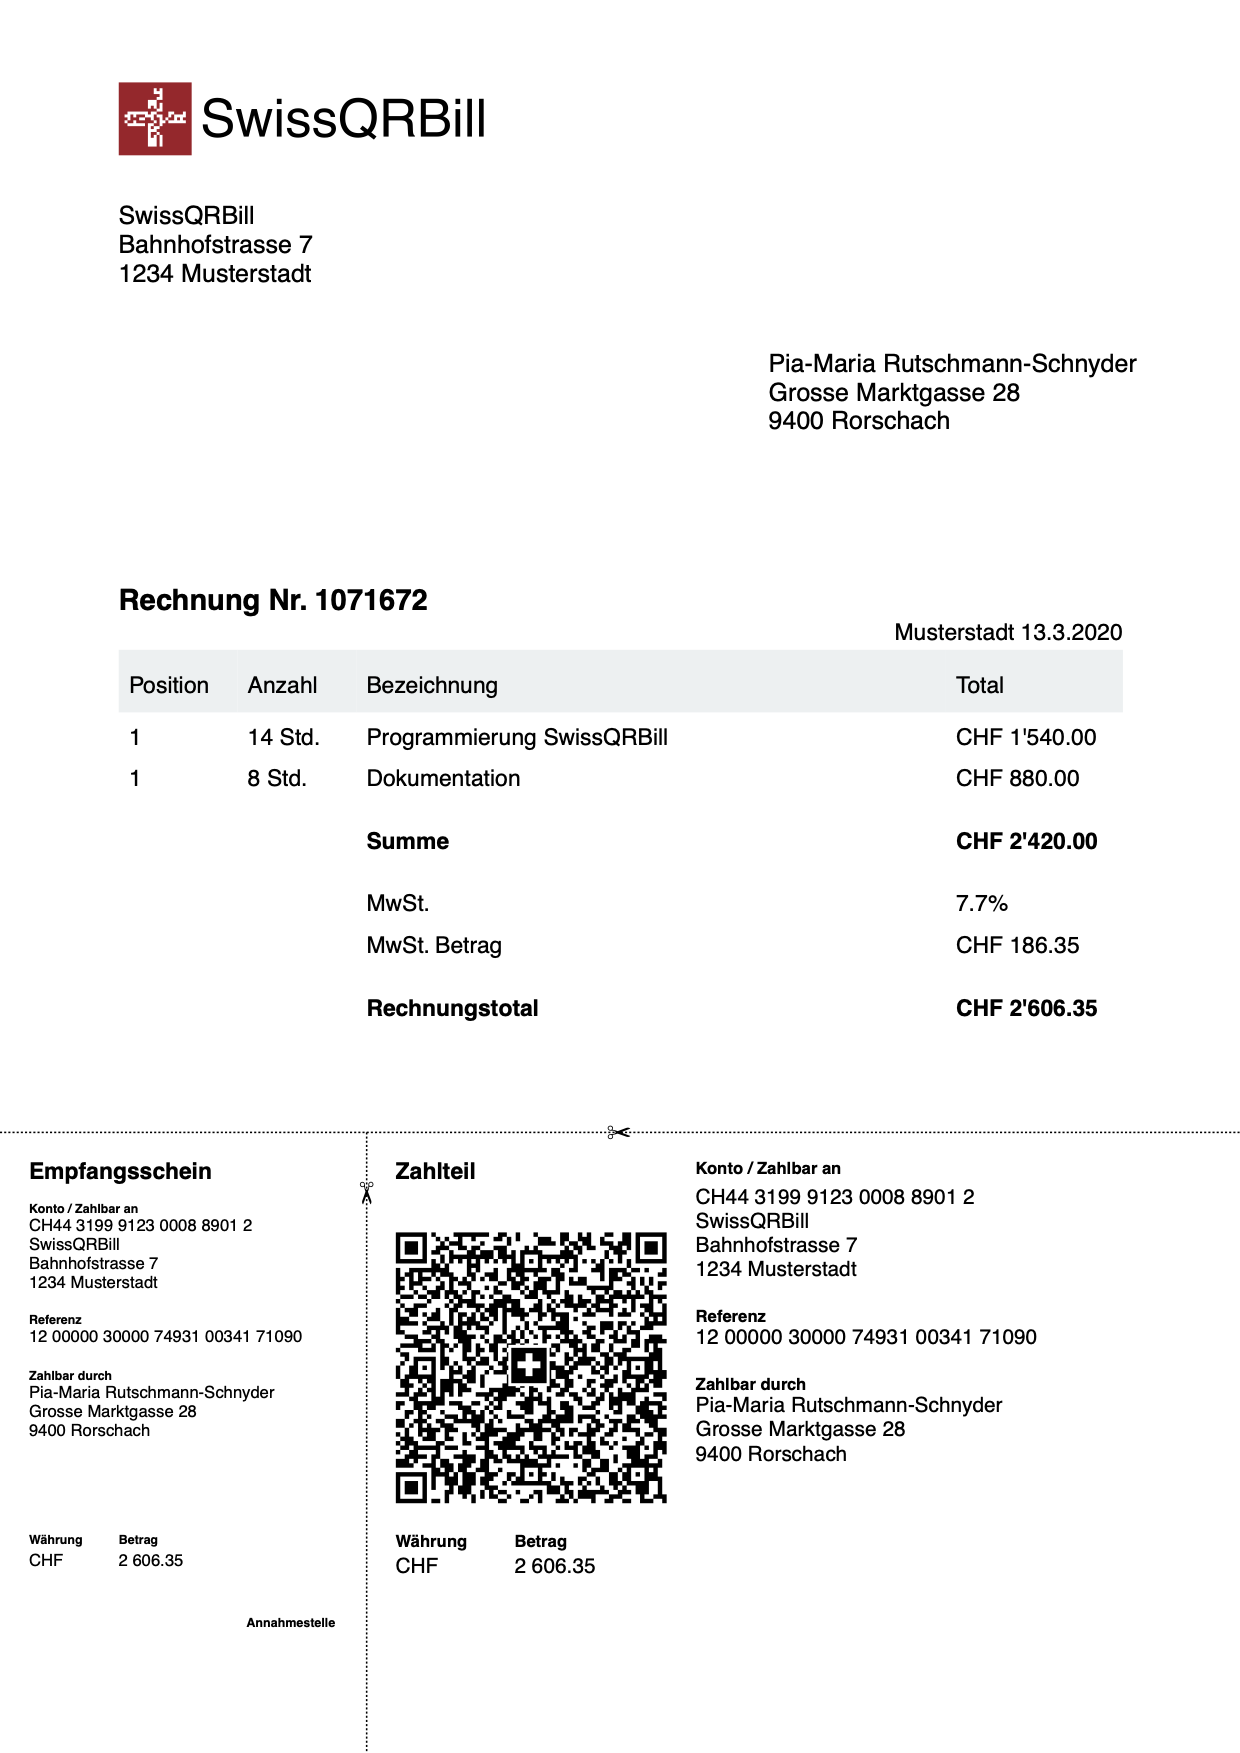
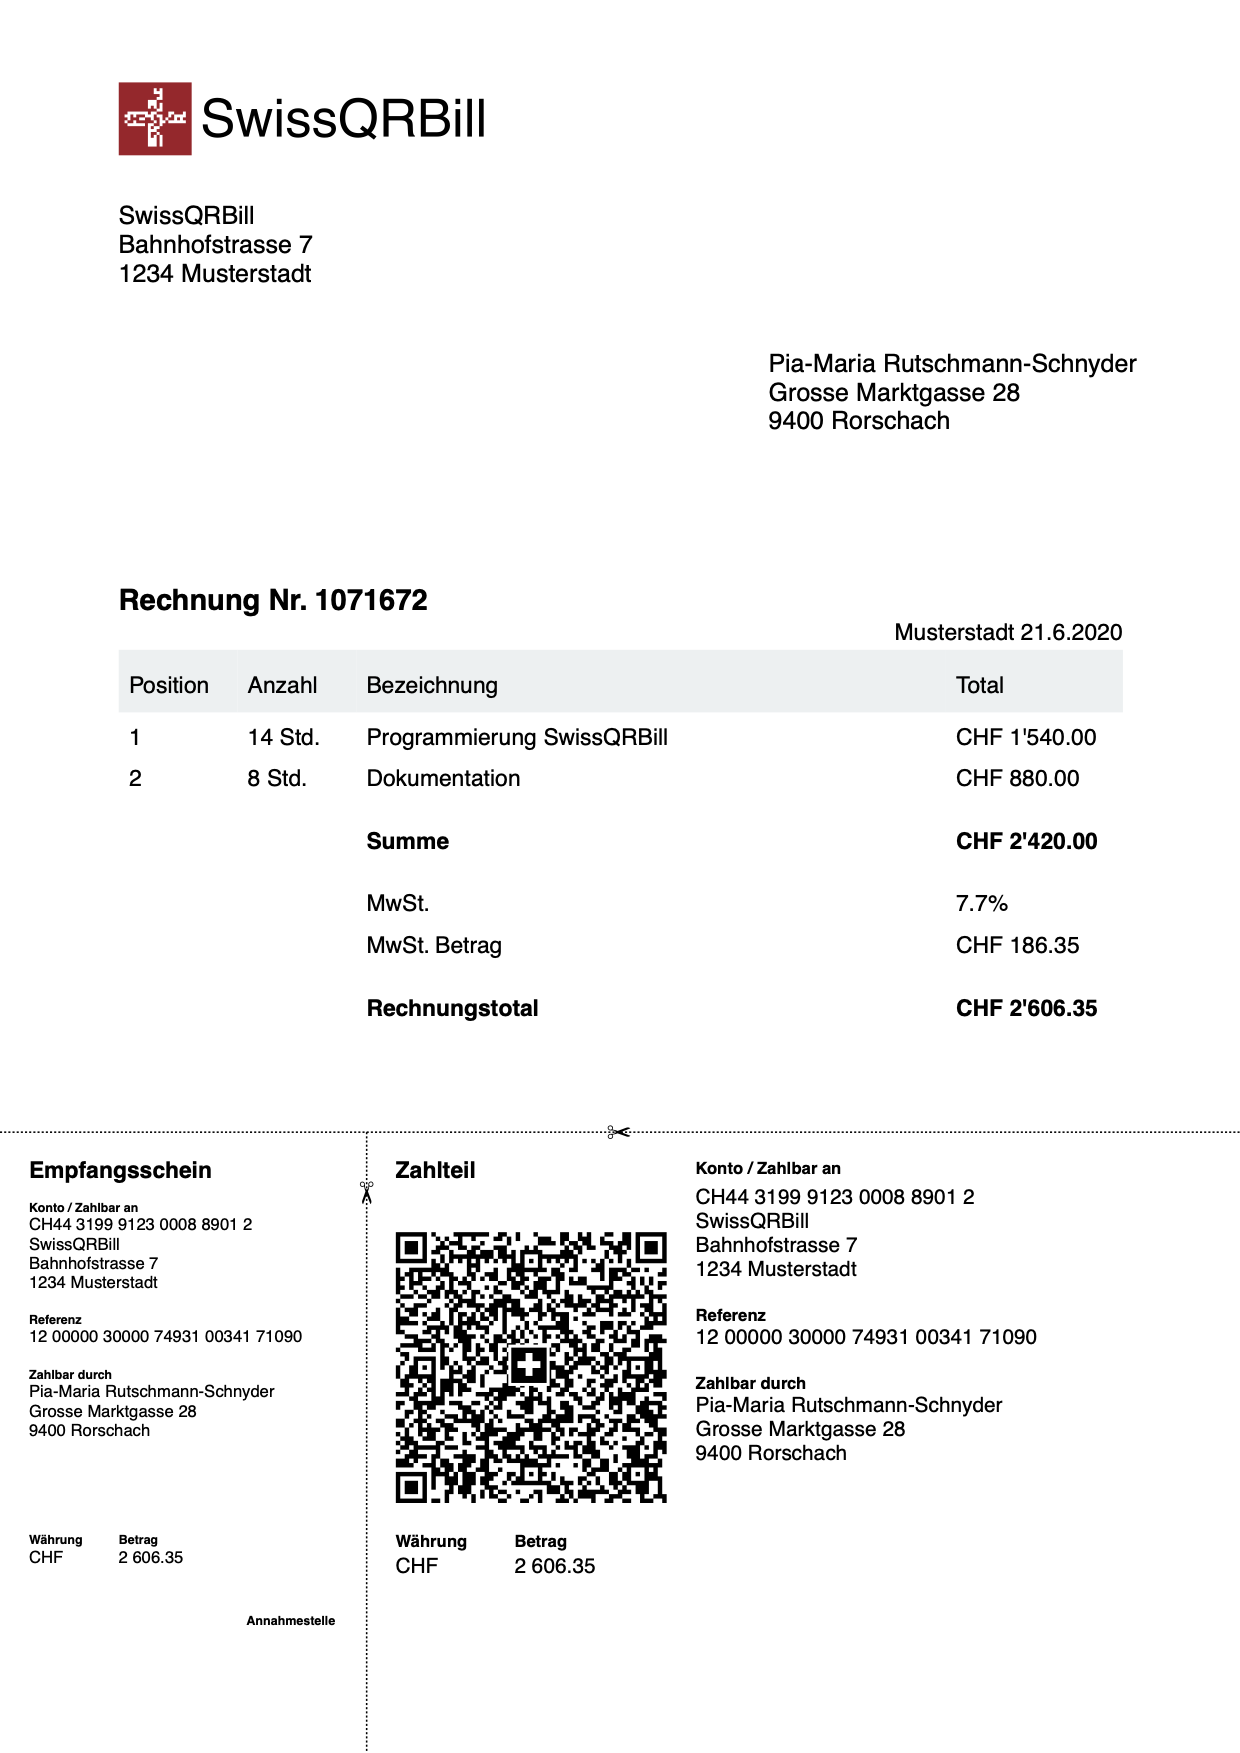
Fixed position typo

diff --git a/examples/how-to-create-a-complete-bill.js b/examples/how-to-create-a-complete-bill.js
@@ -130,7 +130,7 @@ const table = {
     }, {
       columns: [
         {
-          text: "1",
+          text: "2",
           width: pdf.mmToPoints(20)
         }, {
           text: "8 Std.",

diff --git a/doc/how-to-create-a-complete-bill.md b/doc/how-to-create-a-complete-bill.md
@@ -175,7 +175,7 @@ const table = {
     }, {
       columns: [
         {
-          text: "1",
+          text: "2",
           width: pdf.mmToPoints(20)
         }, {
           text: "8 Std.",
